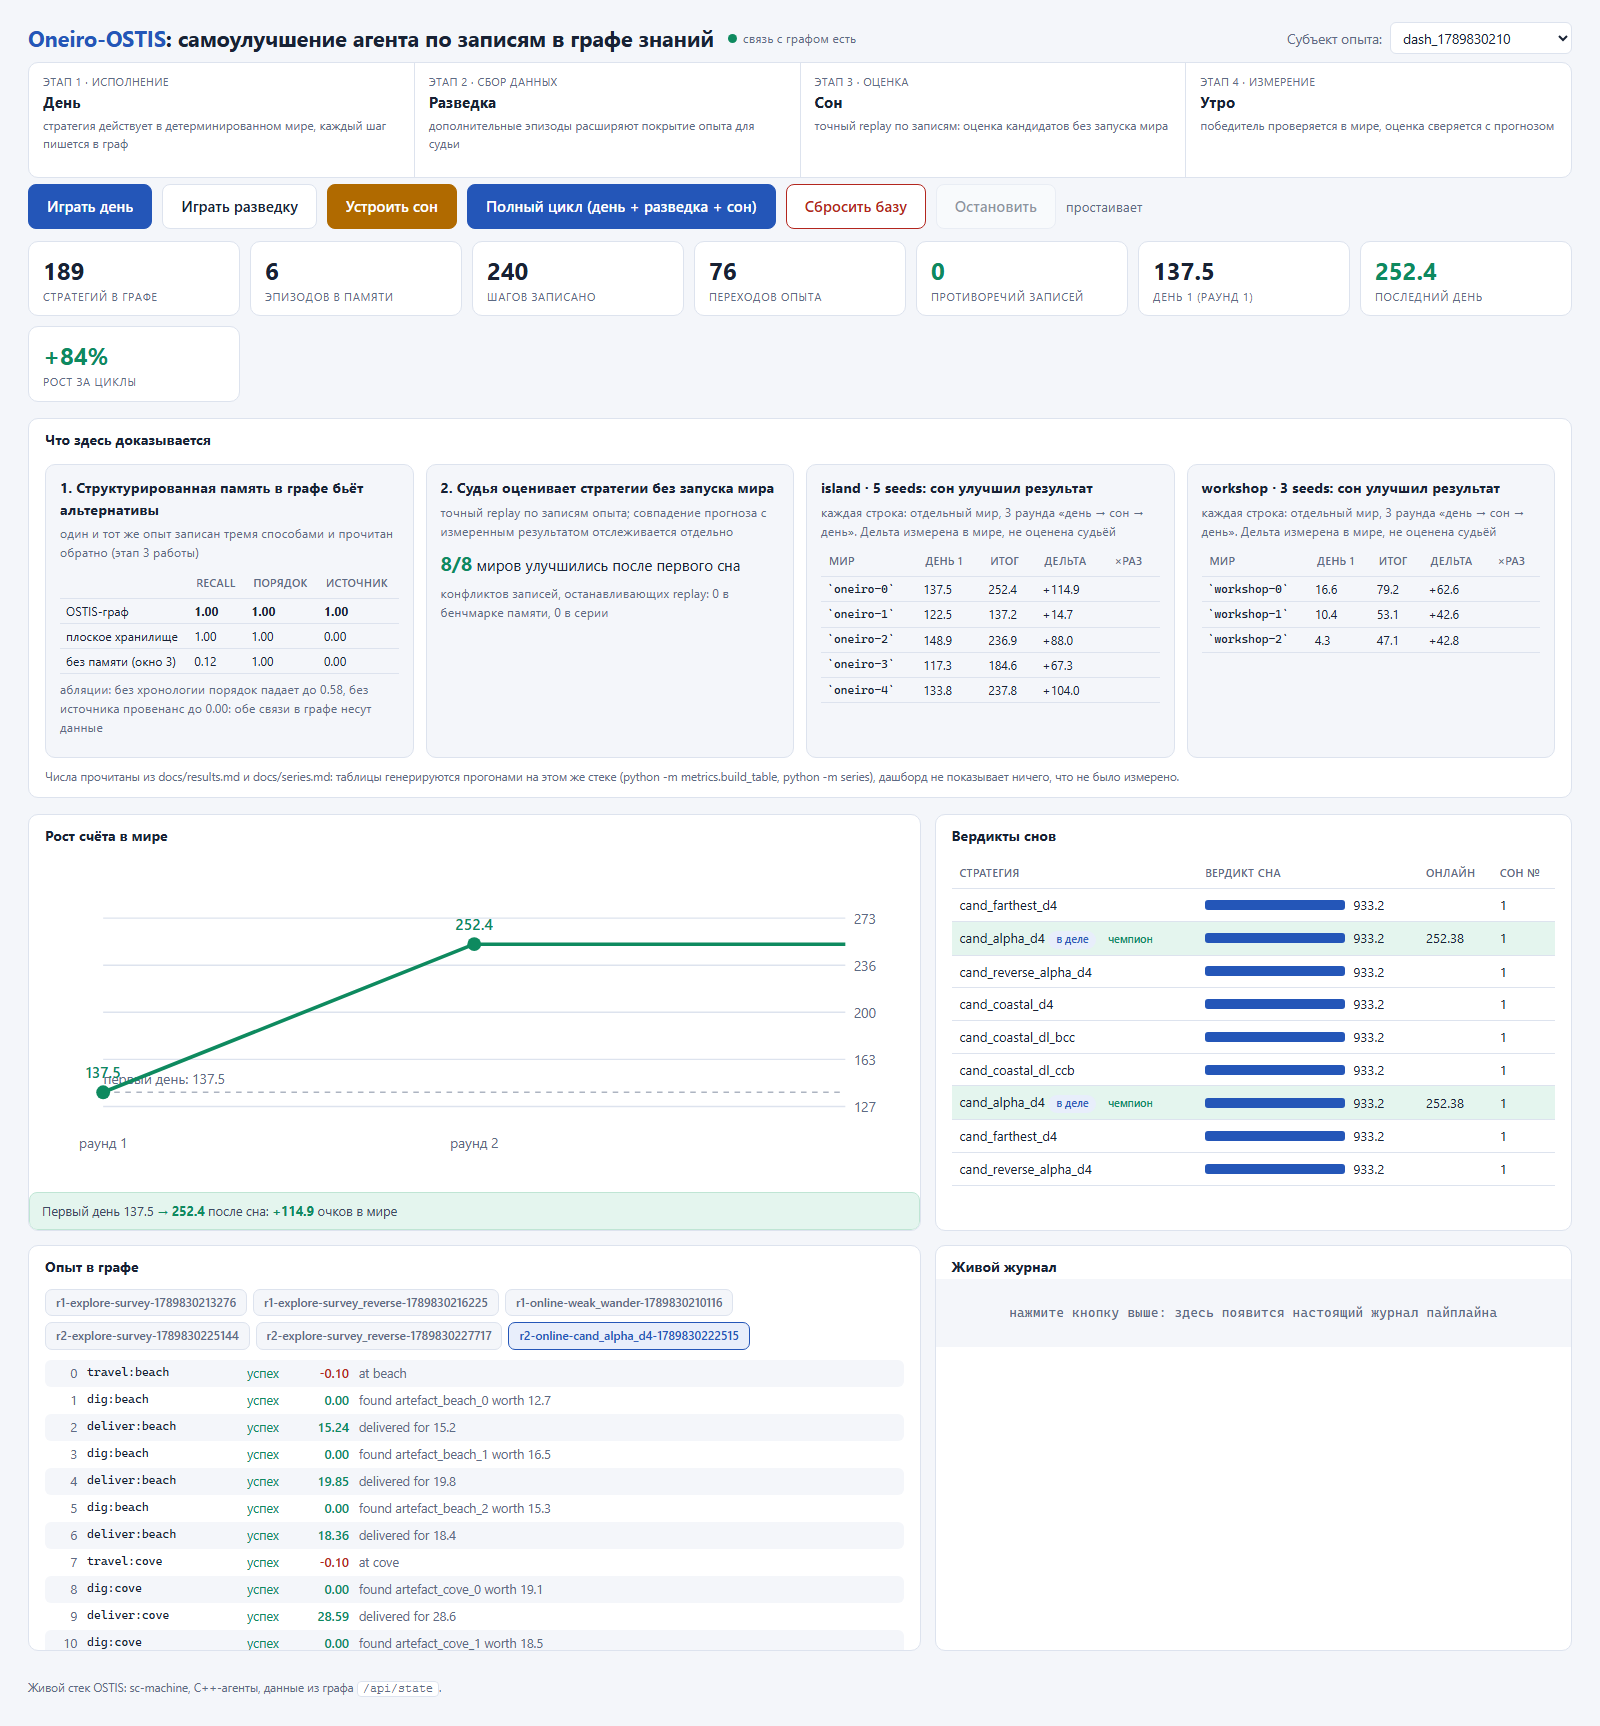
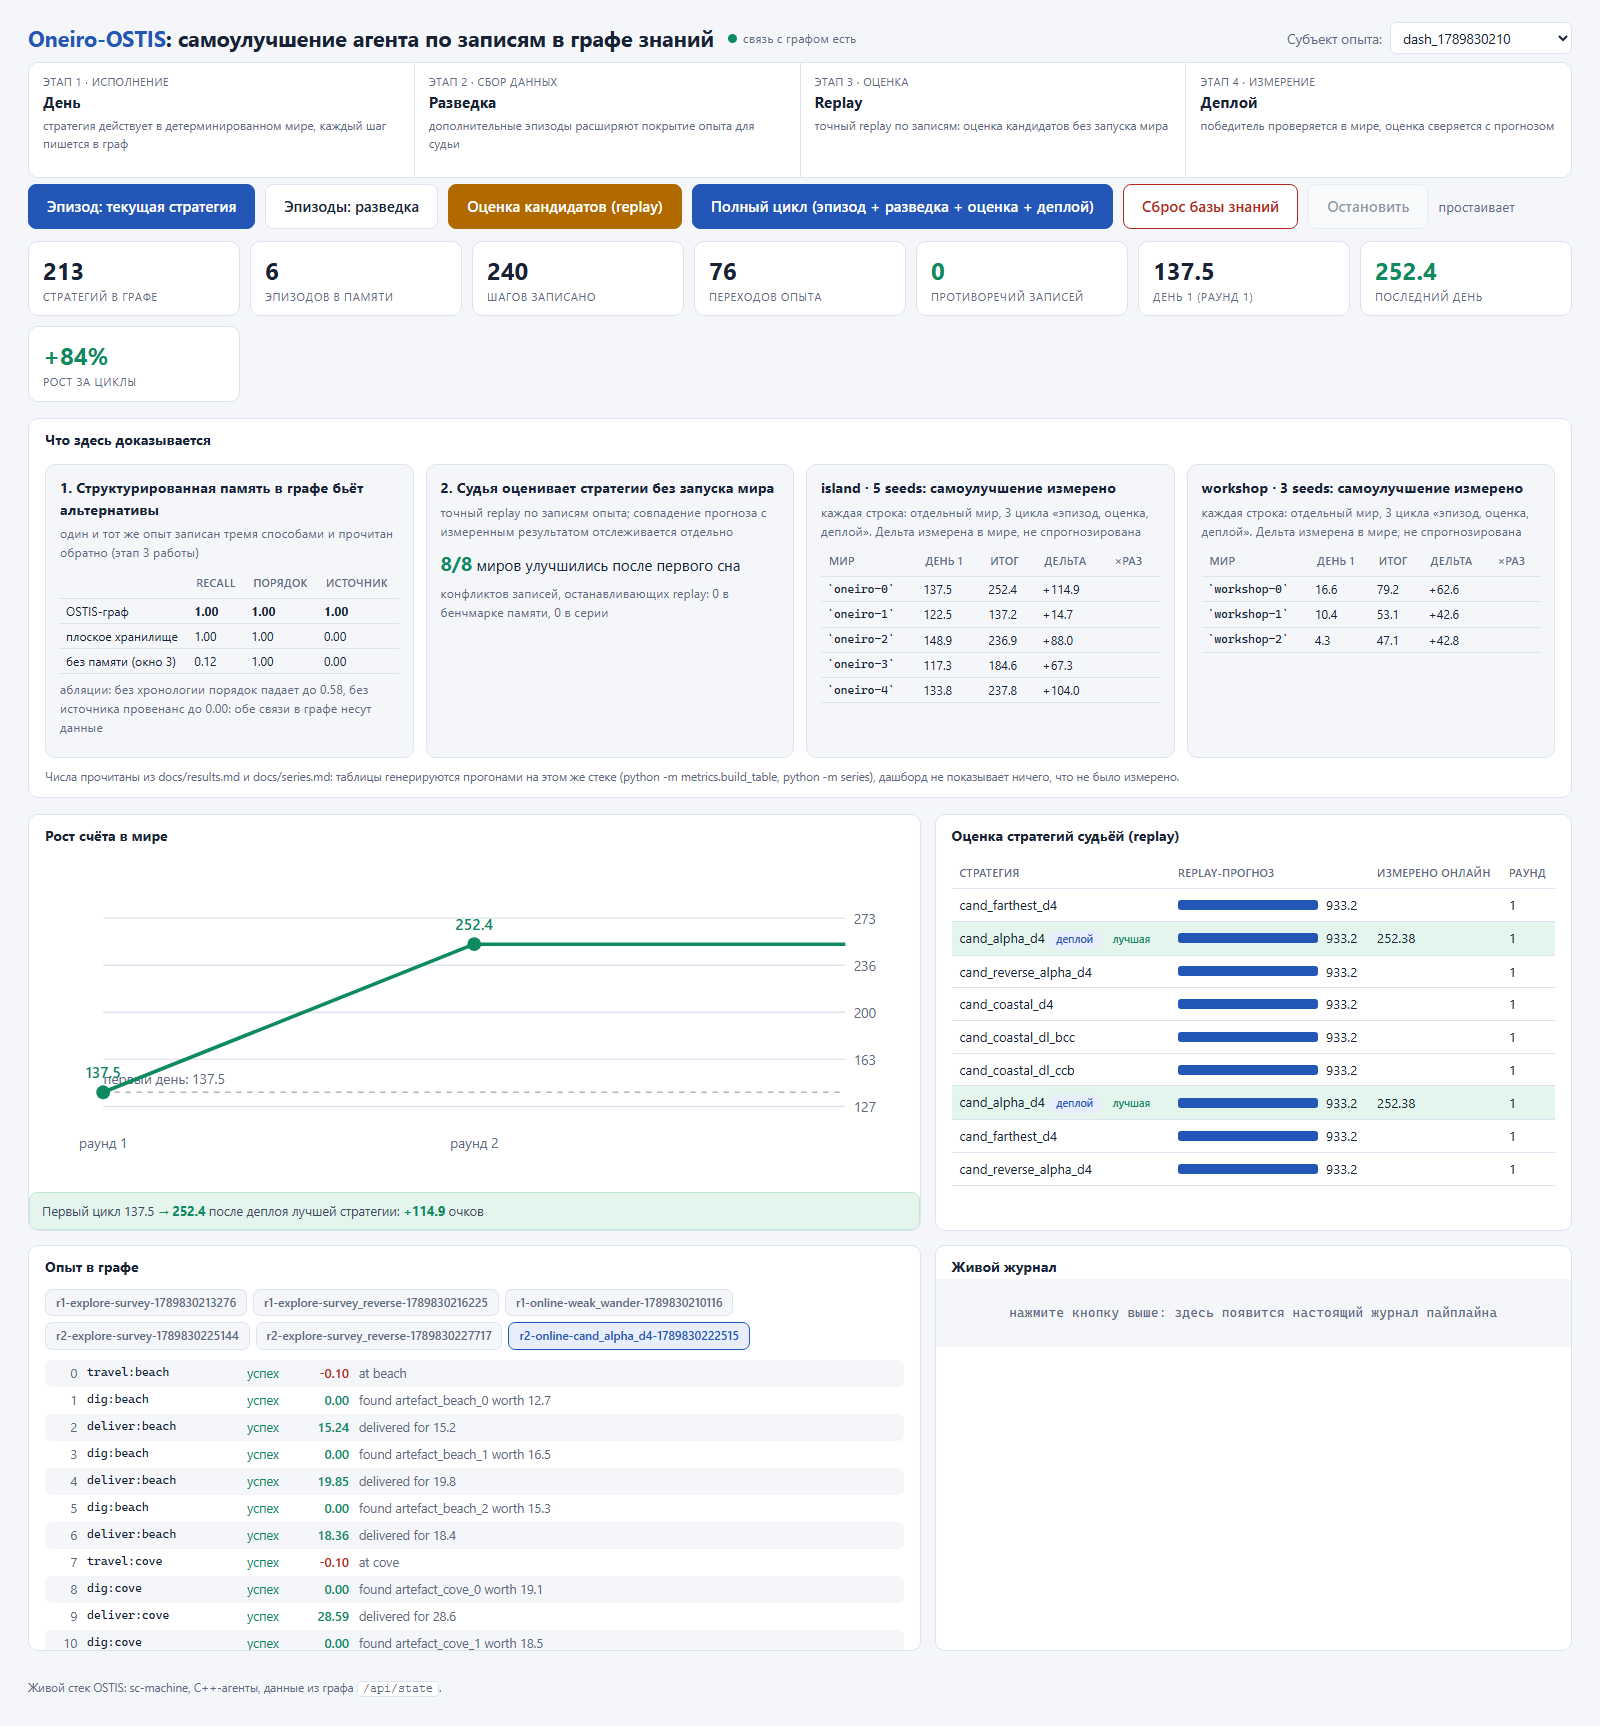
oneiro-ostis: replace game vocabulary with research terminology across dashboard

diff --git a/dashboard/index.html b/dashboard/index.html
@@ -159,18 +159,18 @@ footer code{background:var(--card);border:1px solid var(--line);border-radius:4p
     <div class="d">стратегия действует в детерминированном мире, каждый шаг пишется в граф</div><div class="info" id="i-day"></div></div>
   <div class="stage" data-stage="explore"><div class="n">этап 2 · сбор данных</div><div class="t">Разведка</div>
     <div class="d">дополнительные эпизоды расширяют покрытие опыта для судьи</div><div class="info" id="i-explore"></div></div>
-  <div class="stage" data-stage="dream"><div class="n">этап 3 · оценка</div><div class="t">Сон</div>
+  <div class="stage" data-stage="dream"><div class="n">этап 3 · оценка</div><div class="t">Replay</div>
     <div class="d">точный replay по записям: оценка кандидатов без запуска мира</div><div class="info" id="i-dream"></div></div>
-  <div class="stage" data-stage="deploy"><div class="n">этап 4 · измерение</div><div class="t">Утро</div>
+  <div class="stage" data-stage="deploy"><div class="n">этап 4 · измерение</div><div class="t">Деплой</div>
     <div class="d">победитель проверяется в мире, оценка сверяется с прогнозом</div><div class="info" id="i-deploy"></div></div>
 </div>
 
 <div class="deck">
-  <button class="btn-primary" id="btnDay">Играть день</button>
-  <button id="btnExplore">Играть разведку</button>
-  <button class="btn-dream" id="btnDream">Устроить сон</button>
-  <button class="btn-primary" id="btnCycle">Полный цикл (день + разведка + сон)</button>
-  <button class="btn-danger" id="btnReset">Сбросить базу</button>
+  <button class="btn-primary" id="btnDay">Эпизод: текущая стратегия</button>
+  <button id="btnExplore">Эпизоды: разведка</button>
+  <button class="btn-dream" id="btnDream">Оценка кандидатов (replay)</button>
+  <button class="btn-primary" id="btnCycle">Полный цикл (эпизод + разведка + оценка + деплой)</button>
+  <button class="btn-danger" id="btnReset">Сброс базы знаний</button>
   <button id="btnStop" disabled>Остановить</button>
   <span class="job" id="jobTxt">простаивает</span>
 </div>
@@ -191,7 +191,7 @@ footer code{background:var(--card);border:1px solid var(--line);border-radius:4p
     <div class="verdict" id="ascentVerdict"></div>
   </div>
   <div class="card">
-    <h2>Вердикты снов</h2>
+    <h2>Оценка стратегий судьёй (replay)</h2>
     <div class="body" style="max-height:340px;overflow:auto" id="dreamTable"></div>
   </div>
   <div class="card">
@@ -249,7 +249,7 @@ function render(d){
   // статус задачи приходит с сервера: завершённая работа гасит индикацию
   setUI(d.job.running, d.job.name || "");
 
-  // переключатель персонажа
+  // переключатель субъекта опыта
   const sel = $("subjectSel");
   if(sel.dataset.loaded !== d.subjects.join(",")){
     sel.dataset.loaded = d.subjects.join(",");
@@ -318,8 +318,8 @@ function renderClaims(bench){
        <td class="pos">${r.delta == null ? "" : "+" + r.delta.toFixed(1)}</td>
        <td>${r.ratio == null ? "" : r.ratio.toFixed(2) + "x"}</td></tr>`).join("");
     const domName = dom.name.replace(/\u2014/g, "\u00b7");
-    return `<div class="claim"><div class="ct">${domName}: сон улучшил результат</div>
-      <div class="cn">каждая строка: отдельный мир, 3 раунда «день → сон → день». Дельта измерена в мире, не оценена судьёй</div>
+    return `<div class="claim"><div class="ct">${domName}: самоулучшение измерено</div>
+      <div class="cn">каждая строка: отдельный мир, 3 цикла «эпизод, оценка, деплой». Дельта измерена в мире, не спрогнозирована</div>
       <table><tr><th>мир</th><th>день 1</th><th>итог</th><th>дельта</th><th>×раз</th></tr>${rows}</table></div>`;
   }).join("");
 
@@ -350,7 +350,7 @@ function renderClaims(bench){
 function renderAscent(d, first){
   const eps = d.episodes || {};
   if(!Object.keys(eps).length){
-    $("ascent").innerHTML = `<div class="empty">онлайн-день ещё не игрался: нажмите «Играть день», затем «Устроить сон»</div>`;
+    $("ascent").innerHTML = `<div class="empty">деплой-эпизодов нет: запустите полный цикл, затем одиночные этапы кнопками выше</div>`;
     $("ascentVerdict").innerHTML = "";
     return;
   }
@@ -399,28 +399,28 @@ function renderAscent(d, first){
   if(pts.length && first){
     const gained = pts[pts.length-1].v - first;
     v.innerHTML = gained > 0
-      ? `Первый день ${first.toFixed(1)} <b>→ ${pts[pts.length-1].v.toFixed(1)}</b> после сна: <b>+${gained.toFixed(1)}</b> очков в мире`
-      : `Сон пока не дал роста: ${first.toFixed(1)} → ${pts[pts.length-1].v.toFixed(1)}`;  }
+      ? `Первый цикл ${first.toFixed(1)} <b>→ ${pts[pts.length-1].v.toFixed(1)}</b> после деплоя лучшей стратегии: <b>+${gained.toFixed(1)}</b> очков`
+      : `Роста нет: ${first.toFixed(1)} → ${pts[pts.length-1].v.toFixed(1)}`;  }
 }
 
-/* ---------- таблица снов ---------- */
+/* ---------- таблица оценок стратегий ---------- */
 function renderTable(strategies){
   const maxR = Math.max(...strategies.map(s => s.replay || 0), 1);
   const rows = [...strategies].sort((a,b) => (b.replay||0) - (a.replay||0));
   if(!rows.length){
-    $("dreamTable").innerHTML = `<div class="empty">в графе ещё нет стратегий: устройте сон</div>`;
+    $("dreamTable").innerHTML = `<div class="empty">в графе нет стратегий: запустите оценку кандидатов</div>`;
     return;
   }
   const bestOnline = Math.max(...strategies.map(s => s.online ?? -Infinity));
   $("dreamTable").innerHTML = `<table>
-    <tr><th>стратегия</th><th>вердикт сна</th><th>онлайн</th><th>сон №</th></tr>` +
+    <tr><th>стратегия</th><th>replay-прогноз</th><th>измерено онлайн</th><th>раунд</th></tr>` +
     rows.map(st => {
       const isWin = st.online != null && st.online >= bestOnline - 0.01;
       const barW = Math.max(3, Math.round(140 * (st.replay || 0) / maxR));
       return `<tr class="${isWin ? "winrow" : ""}">
         <td>${st.name || "(без имени)"}
-          ${st.online != null ? `<span class="tag dep">в деле</span>` : ""}
-          ${isWin ? `<span class="tag win">чемпион</span>` : ""}</td>
+          ${st.online != null ? `<span class="tag dep">деплой</span>` : ""}
+          ${isWin ? `<span class="tag win">лучшая</span>` : ""}</td>
         <td><span class="bar-wrap"><span class="bar" style="width:0" data-w="${barW}"></span>${st.replay ?? ""}</span></td>
         <td>${st.online != null ? st.online.toFixed(2) : ""}</td>
         <td>${st.round ?? ""}</td></tr>`;
@@ -436,7 +436,7 @@ function renderEpisodes(eps){
   const names = Object.keys(eps);
   if(!names.length){
     $("epTabs").innerHTML = "";
-    $("epBody").innerHTML = `<div class="empty">для этого персонажа эпизодов пока нет: нажмите «Играть день»</div>`;
+    $("epBody").innerHTML = `<div class="empty">для этого субъекта эпизодов нет: запустите «Эпизод: текущая стратегия»</div>`;
     currentEp = null;
     return;
   }
@@ -506,13 +506,14 @@ es.onmessage = e => {
   log.scrollTop = log.scrollHeight;
   // подсветка этапов по содержимому реальных событий
   if(line.includes("экспедицию") || line.includes("Запущено: День")) { resetStages(); setStage("day","active"); }
-  if(line.includes("Запущено: Сон")) setStage("dream","active");
+  if(line.includes("Запущено: Сон") || line.includes("Запущено: Оценка")) setStage("dream","active");
+  if(line.includes("Запущено: Оценка")) setStage("dream","active");
   if(line.includes("Запущено: Разведка")) setStage("explore","active");
   if(line.includes("Запущено: Полный")) resetStages();
   if(line.includes("Разведка маршрутом")) { setStage("day","done","записано"); setStage("explore","active"); }
-  if(line.includes("засыпает")) { setStage("explore","done","2 маршрута"); setStage("dream","active"); }
-  if(line.includes("Судья переиграл")) $("i-dream").textContent = line.slice(0,64);
-  if(line.includes("Победитель:")) { setStage("dream","done"); setStage("deploy","active"); }
+  if(line.includes("Оценка кандидатов")) { setStage("explore","done","2 маршрута"); setStage("dream","active"); }
+  if(line.includes("Replay завершил")) $("i-dream").textContent = line.slice(0,64);
+  if(line.includes("Победитель replay")) { setStage("dream","done"); setStage("deploy","active"); }
   if(line.includes("День завершён:")) { setStage("day","done","измерено"); setStage("deploy","done","измерено онлайн"); scheduleReset(); }
   if(line.includes("Раунд")) { /* полный цикл пишет свои строки, баннер уже обновлён по этапам */ }
   if(line.includes("Полный цикл")) resetStages();

diff --git a/dashboard/server.py b/dashboard/server.py
@@ -341,7 +341,7 @@ def _start(kind: str):
     actions = {
         "day": (_do_day, subject, "День"),
         "explore": (_do_explore, subject, "Разведка"),
-        "dream": (_do_dream, subject, "Сон"),
+        "dream": (_do_dream, subject, "Оценка (replay)"),
         "cycle": (_do_cycle, subject, "Полный цикл"),
         "reset": (_do_reset, None, "Сброс базы"),
     }
@@ -366,7 +366,7 @@ def _do_day():
     subject = _job["subject"]
     with _lock:
         b = _bridge()
-        _log_event(f"Агент отправляется в экспедицию (стратегия «блуждание»), каждый шаг записывается в граф знаний")
+        _log_event(f"Эпизод по текущей стратегии: каждый шаг пишется в граф (субъект {subject})")
         _check_stop()
         result = run_episode(b, subject, strategy_weak_incumbent(), episode_id=episode_id_for("day", "weak_wander"))
         b.mark_strategy_online_score("weak_wander", result.total_score)
@@ -396,7 +396,7 @@ def _do_dream():
     subject = _job["subject"] or _find_any_subject()
     if not subject:
         raise RuntimeError("Нет записанного опыта: сначала запустите день")
-    _log_event(f"Агент «засыпает»: судья перебирает варианты стратегии по записям за {subject}")
+    _log_event(f"Оценка кандидатов: точный replay по записям опыта за {subject}")
     with _lock:
         b = _bridge()
         _check_stop()
@@ -411,10 +411,10 @@ def _do_dream():
         )
         elapsed = time.perf_counter() - t0
     ranked = sorted(result.results, key=lambda p: p[1].estimated_score, reverse=True)
-    _log_event(f"Судья переиграл {len(result.results)} вариантов стратегии за {elapsed:.1f} сек, ни разу не запустив мир")
+    _log_event(f"Replay завершил {len(result.results)} вариантов стратегии за {elapsed:.1f} сек, мир не запускался ни разу")
     for cand, rr in ranked[:3]:
         _log_event(f"   {cand.name}: прогноз {rr.estimated_score:.1f} (покрытие {rr.coverage:.2f})")
-    _log_event(f"Победитель: {result.winner.name}, станет поведением агента на следующий день")
+    _log_event(f"Победитель replay-оценки: {result.winner.name} (прогноз {result.results and sorted(result.results, key=lambda p: p[1].estimated_score, reverse=True)[0][1].estimated_score or 0:.1f}), будет измерен в следующем эпизоде")
     _log_event(f"Противоречий в записях: {len(result.consistency['conflicts'])}")
 
 
@@ -422,7 +422,7 @@ def _do_cycle():
     from loop import run_loop
 
     subject = _job["subject"]
-    _log_event(f"Полный цикл: день, разведка, сон, деплой для {subject}")
+    _log_event(f"Полный цикл: эпизод, разведка, оценка, деплой для {subject}")
     with _lock:
         b = _bridge()
         report = run_loop(b, subject=subject, rounds=2, max_steps=40, limit=24,
